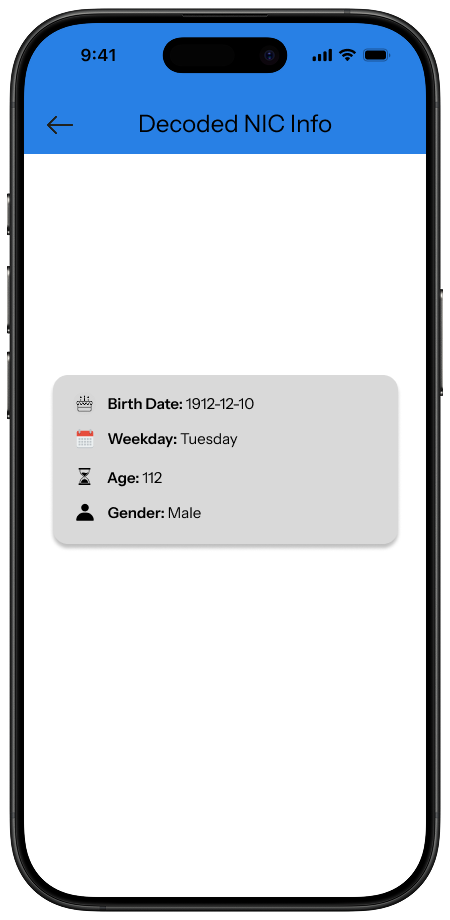
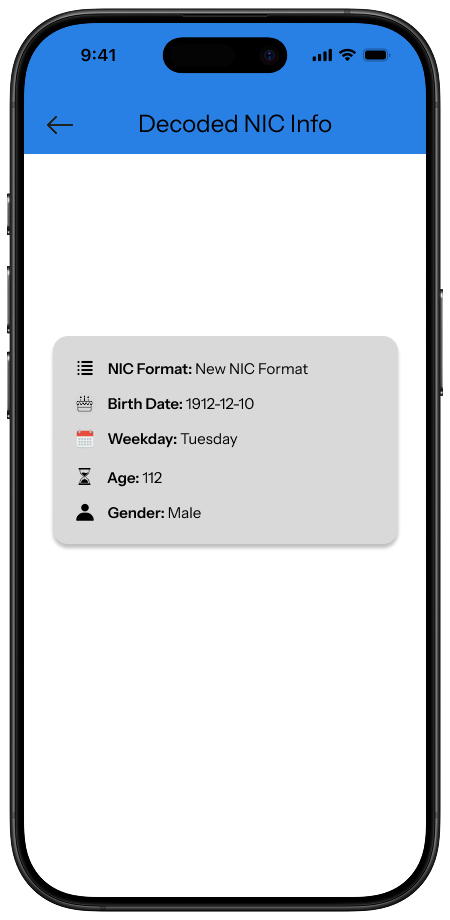
Added Format

Changed region(s): [[0.0933, 0.3652, 0.9022, 0.4261]]

diff --git a/lib/nic_controller.dart b/lib/nic_controller.dart
@@ -7,13 +7,16 @@ class NICController extends GetxController {
   RxString weekday = ''.obs;
   RxInt age = 0.obs;
   RxString errorMessage = ''.obs;
+  RxString nicFormat = ''.obs; // New variable to store NIC format
 
   void decodeNIC(String nic) {          // Main decoding entry point
     resetValues();
     try {
       if (isOldFormat(nic)) {
+        nicFormat.value = 'Old NIC Format'; // Set NIC format
         processOldNIC(nic);
       } else if (isNewFormat(nic)) {
+        nicFormat.value = 'New NIC Format'; // Set NIC format
         processNewNIC(nic);
       } else {
         throw FormatException('Invalid NIC format');
@@ -45,7 +48,7 @@ class NICController extends GetxController {
     int year = int.parse(nic.substring(0, 4));
     int dayCode = int.parse(nic.substring(4, 7));
     processCommon(year, dayCode);
-}
+  }
   
   // Common processing for both old and new formats
   void processCommon(int year, int dayCode) {
@@ -56,16 +59,16 @@ class NICController extends GetxController {
 
   // Convert day to date
   void calculateDate(int year, int dayOfYear) {
-  try {
-    final date = DateTime(year).add(Duration(days: dayOfYear - 1));
-    if (date.year != year) throw Exception('Invalid day');
-    birthDate.value = date;
-    weekday.value = DateFormat('EEEE').format(date);
-    calculateAge(date);
-  } catch (e) {
-    errorMessage.value = 'Invalid date: $dayOfYear';
+    try {
+      final date = DateTime(year).add(Duration(days: dayOfYear - 1));
+      if (date.year != year) throw Exception('Invalid day');
+      birthDate.value = date;
+      weekday.value = DateFormat('EEEE').format(date);
+      calculateAge(date);
+    } catch (e) {
+      errorMessage.value = 'Invalid date: $dayOfYear';
+    }
   }
-}
 
   // Calculate age from birth date
   void calculateAge(DateTime dob) {
@@ -84,5 +87,6 @@ class NICController extends GetxController {
     weekday.value = '';
     age.value = 0;
     errorMessage.value = '';
+    nicFormat.value = ''; // Reset NIC format
   }
 }

diff --git a/lib/result_screen.dart b/lib/result_screen.dart
@@ -36,6 +36,8 @@ class ResultScreen extends StatelessWidget {
                           crossAxisAlignment: CrossAxisAlignment.start,
                           children: [
                             buildInfoRow(
+                                'NIC Format:', controller.nicFormat.value, Icons.format_list_bulleted), // New row for NIC format
+                            buildInfoRow(
                                 'Birth Date:',
                                 DateFormat('yyyy-MM-dd')
                                     .format(controller.birthDate.value),
